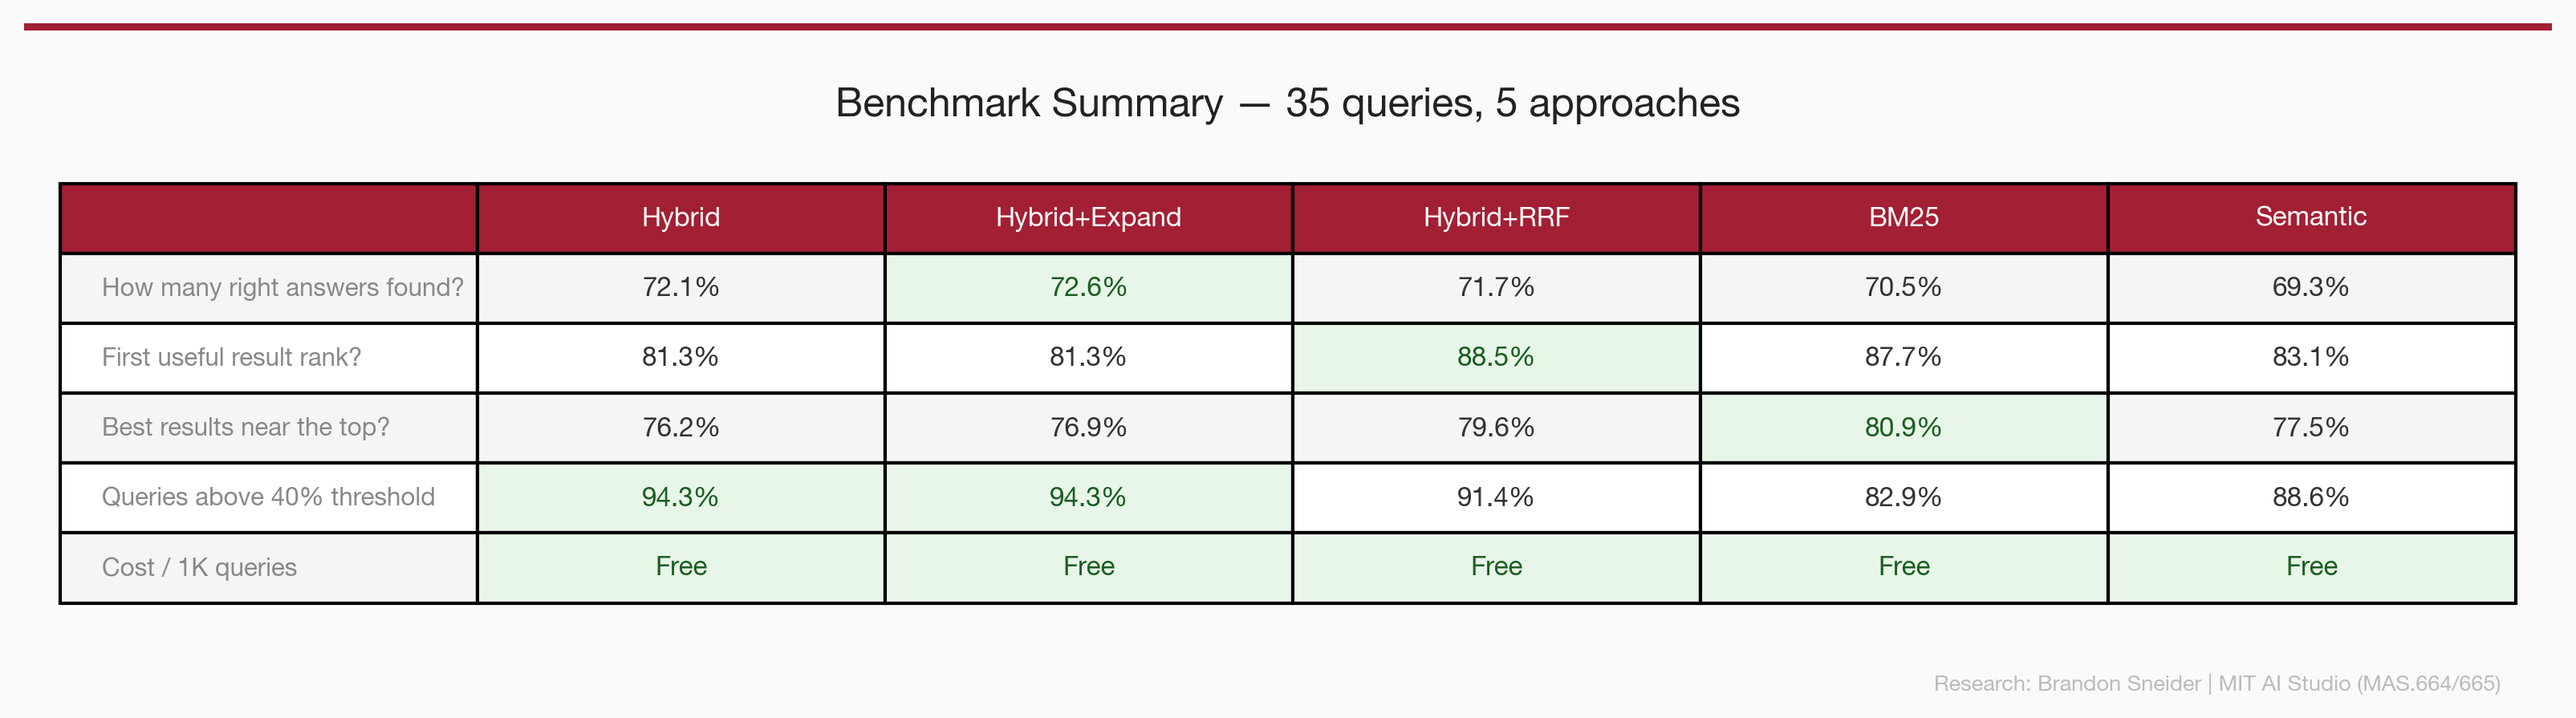
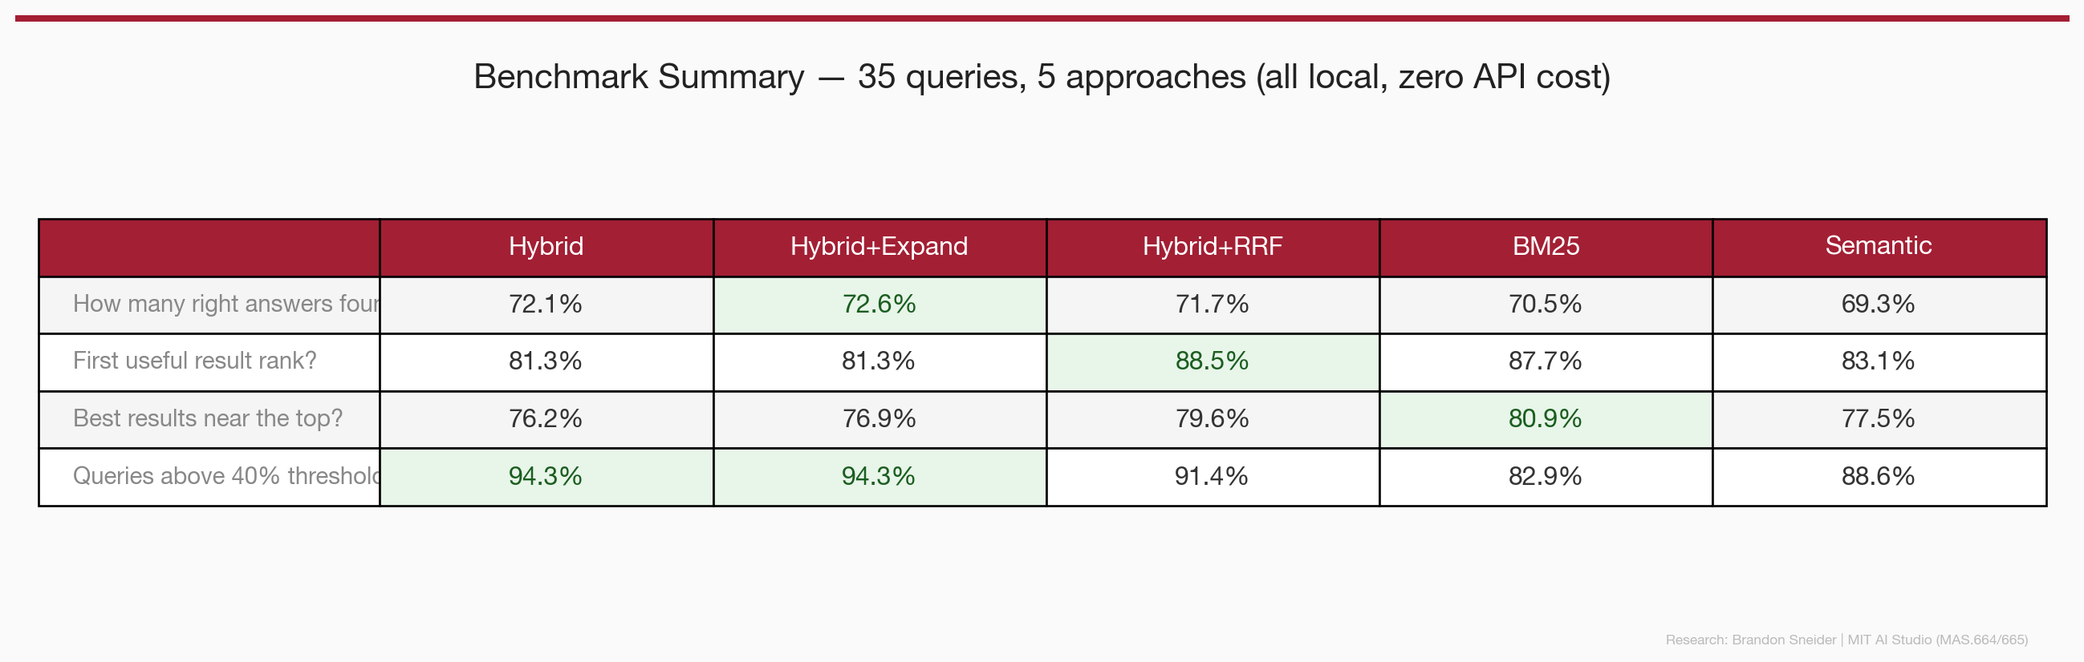
Optimize benchmark charts for Google Slides (16:9, larger fonts)

diff --git a/scripts/generate_charts.py b/scripts/generate_charts.py
@@ -51,8 +51,12 @@ def _c(name):
 
 
 COST = {"gemini": 1.15, "nemotron": 11.10, "llama": 1.09, "improved": 1.15, "pageindex": 1.15}
-DPI = 300
+DPI = 192
 FOOTER = "Research: Brandon Sneider | MIT AI Studio (MAS.664/665)"
+
+# Google Slides optimized (16:9)
+SLIDE_W = 13.33
+SLIDE_H = 7.5
 
 
 def _cost(name):
@@ -99,42 +103,29 @@ def chart_quality_vs_cost(data, output_dir):
     ranked = sorted(apps, key=lambda a: agg[a]["Recall@K"])
 
     recalls = [agg[a]["Recall@K"] for a in ranked]
-    costs = [_cost(a) for a in ranked]
     colors = [_c(a) for a in ranked]
 
-    fig, ax = plt.subplots(figsize=(8, 4.8))
+    fig, ax = plt.subplots(figsize=(SLIDE_W, SLIDE_H))
     y = np.arange(len(ranked))
 
     bars = ax.barh(y, recalls, color=colors, alpha=0.82, height=0.55,
                    zorder=3, edgecolor="white", linewidth=0.8)
 
-    # Separator between free and paid
-    free_n = sum(1 for c in costs if c == 0)
-    if 0 < free_n < len(ranked):
-        sep_y = free_n - 0.5
-        ax.axhline(sep_y, color="#e0e0e0", linewidth=0.8, zorder=2)
-
     best = max(recalls)
-    for bar, recall, cost in zip(bars, recalls, costs):
+    for bar, recall in zip(bars, recalls):
         mid = bar.get_y() + bar.get_height() / 2
         w = "bold" if recall == best else "normal"
-        # "72.6% Free" or "67.2% $1.15/1K" — all inline right after bar
-        cstr = "Free" if cost == 0 else f"${cost:.2f}/1K"
-        cc = "#27AE60" if cost == 0 else "#C0392B"
         ax.text(recall + 0.003, mid, f"{recall:.1%}", va="center",
-                fontsize=9, fontweight=w, color="#333")
-        ax.text(recall + 0.032, mid, cstr, va="center",
-                fontsize=7.5, fontweight="bold", color=cc)
+                fontsize=14, fontweight=w, color="#333")
 
     ax.set_yticks(y)
-    ax.set_yticklabels(ranked, fontsize=9.5, fontweight="bold")
-    ax.set_xlabel("Recall@K", fontsize=10, color="#666")
+    ax.set_yticklabels(ranked, fontsize=14, fontweight="bold")
+    ax.set_xlabel("Recall@K", fontsize=14, color="#666")
     ax.xaxis.set_major_formatter(plt.FuncFormatter(lambda v, _: f"{v:.0%}"))
-    # Tight right margin: just enough for the longest cost label
-    max_cost_len = max(len(f"${c:.2f}/1K") if c > 0 else len("Free") for c in costs)
-    ax.set_xlim(0.62, best + 0.045 + max_cost_len * 0.003)
-    ax.set_title("Retrieval Quality vs. Cost", fontsize=13, fontweight="bold",
-                 pad=14, color="#222")
+    ax.tick_params(axis='x', labelsize=12)
+    ax.set_xlim(0.62, best + 0.05)
+    ax.set_title("Retrieval Quality — All Local, Zero API Cost",
+                 fontsize=18, fontweight="bold", pad=18, color="#222")
 
     fig.tight_layout(rect=[0, 0.02, 1, 0.975])
     _brand(fig)
@@ -160,42 +151,39 @@ def chart_hybrid_mix(data, output_dir):
     x = [p["sw"] for p in hyb]
     y = [p["mean_recall"] for p in hyb]
 
-    fig, ax = plt.subplots(figsize=(8, 4.5))
+    fig, ax = plt.subplots(figsize=(SLIDE_W, SLIDE_H))
 
     ax.fill_between(x, y, alpha=0.05, color=C_HYB)
-    ax.plot(x, y, "o-", color=C_HYB, lw=2, ms=5, zorder=4,
-            markeredgecolor="white", markeredgewidth=1)
+    ax.plot(x, y, "o-", color=C_HYB, lw=3, ms=8, zorder=4,
+            markeredgecolor="white", markeredgewidth=1.5)
 
     bi = max(range(len(y)), key=lambda i: y[i])
     ax.annotate(f"Best: {x[bi]:.0%} semantic\n{y[bi]:.1%} recall",
                 xy=(x[bi], y[bi]),
                 xytext=(x[bi] - 0.2, y[bi] + 0.025),
-                fontsize=8, fontweight="bold", color=C_HYB,
-                arrowprops=dict(arrowstyle="->", color=C_HYB, lw=1.2))
+                fontsize=12, fontweight="bold", color=C_HYB,
+                arrowprops=dict(arrowstyle="->", color=C_HYB, lw=1.5))
 
     if llm:
         lr = [p["mean_recall"] for p in llm]
         lo, hi = min(lr), max(lr)
         ax.axhspan(lo - 0.001, hi + 0.001, alpha=0.07, color=C_LLM, zorder=1)
         ax.axhline(np.mean(lr), color=C_LLM, ls="--", lw=1.2, alpha=0.5, zorder=2)
-        # LLM label above the band, left-aligned to avoid right-side clutter
         ax.text(0.02, hi + 0.006,
                 f"LLM Rerankers ({lo:.1%}\u2013{hi:.1%}, $1\u2013$11/1K)",
-                fontsize=7.5, color=C_LLM, va="bottom", fontweight="bold")
+                fontsize=10, color=C_LLM, va="bottom", fontweight="bold")
 
-    # Endpoint labels — "Pure BM25" below first point, "Pure Semantic" above last
-    # Offset them vertically to avoid colliding with the LLM band
-    ax.text(0.01, y[0] - 0.012, "Pure BM25", fontsize=7.5,
+    ax.text(0.01, y[0] - 0.012, "Pure BM25", fontsize=11,
             color=C_BM25, fontweight="bold", va="top")
-    # Last point (pure semantic) is near the LLM band — put label above
-    ax.text(0.99, y[-1] + 0.012, "Pure Semantic", fontsize=7.5,
+    ax.text(0.99, y[-1] + 0.012, "Pure Semantic", fontsize=11,
             color=C_SEM, fontweight="bold", va="bottom", ha="right")
 
-    ax.set_xlabel("Semantic Weight  (BM25 = 1 \u2212 semantic)", fontsize=10, color="#666")
-    ax.set_ylabel("Recall@K", fontsize=10, color="#666")
+    ax.set_xlabel("Semantic Weight  (BM25 = 1 \u2212 semantic)", fontsize=14, color="#666")
+    ax.set_ylabel("Recall@K", fontsize=14, color="#666")
     ax.set_title("Hybrid Search: Finding the Optimal Mix",
-                 fontsize=13, fontweight="bold", pad=14, color="#222")
+                 fontsize=18, fontweight="bold", pad=18, color="#222")
     ax.yaxis.set_major_formatter(plt.FuncFormatter(lambda v, _: f"{v:.0%}"))
+    ax.tick_params(axis='both', labelsize=12)
     ax.set_xlim(-0.03, 1.03)
     ax.set_ylim(min(y) - 0.025, max(y) + 0.045)
 
@@ -238,27 +226,17 @@ def chart_summary_table(data, output_dir):
         rows.append(row)
         rcolors.append(rc)
 
-    # Cost row
-    cr, cc = ["Cost / 1K queries"], ["#f5f5f5"]
-    costs = [_cost(a) for a in apps]
-    for c in costs:
-        cr.append(f"${c:.2f}" if c > 0 else "Free")
-        cc.append("#e8f5e9" if c == 0 else "#f5f5f5")
-    rows.append(cr)
-    rcolors.append(cc)
-
-    fw = max(10, 3 + na * 1.5)
-    fig, ax = plt.subplots(figsize=(fw, 2.8))
+    fig, ax = plt.subplots(figsize=(SLIDE_W, SLIDE_H * 0.55))
     ax.axis("off")
-    ax.set_title(f"Benchmark Summary \u2014 {data['n_queries']} queries, {na} approaches",
-                 fontsize=12, fontweight="bold", pad=8, color="#222")
+    ax.set_title(f"Benchmark Summary \u2014 {data['n_queries']} queries, {na} approaches (all local, zero API cost)",
+                 fontsize=16, fontweight="bold", pad=12, color="#222")
 
     tbl = ax.table(cellText=rows, colLabels=cols, cellColours=rcolors,
                    loc="center", cellLoc="center")
     tbl.auto_set_font_size(False)
-    fs = 8 if na <= 5 else 6.8 if na <= 8 else 6
+    fs = 12 if na <= 5 else 10 if na <= 8 else 8
     tbl.set_fontsize(fs)
-    tbl.scale(1.0, 1.8)
+    tbl.scale(1.0, 2.2)
 
     dw = 0.17
     aw = (1.0 - dw) / na
@@ -273,7 +251,7 @@ def chart_summary_table(data, output_dir):
 
     for i in range(1, len(rows) + 1):
         tbl[i, 0].get_text().set_ha("left")
-        tbl[i, 0].get_text().set_fontsize(max(5.5, fs - 0.5))
+        tbl[i, 0].get_text().set_fontsize(max(8, fs - 1))
         tbl[i, 0].get_text().set_color("#888")
 
     for i, (mk, _) in enumerate(metrics):
@@ -282,10 +260,6 @@ def chart_summary_table(data, output_dir):
         for j, v in enumerate(vals):
             if v == best:
                 tbl[i + 1, j + 1].set_text_props(fontweight="bold", color="#1b5e20")
-
-    for j, c in enumerate(costs):
-        if c == 0:
-            tbl[len(metrics) + 1, j + 1].set_text_props(fontweight="bold", color="#1b5e20")
 
     fig.tight_layout(rect=[0, 0.025, 1, 0.96])
     _brand(fig)
@@ -346,7 +320,7 @@ def chart_approach_strengths(data, output_dir):
     n = len(labels)
 
     # Spacing: 1.5 units between rows for description text
-    fig, ax = plt.subplots(figsize=(9, 6.5))
+    fig, ax = plt.subplots(figsize=(SLIDE_W, SLIDE_H))
     yp = np.arange(n) * 1.5
 
     # Range lines (behind dots)
@@ -400,32 +374,33 @@ def chart_approach_strengths(data, output_dir):
             if xval == best_val:
                 too_close = any(abs(xval - lx) < 0.03 for lx in labeled_x)
                 if not too_close:
-                    ax.annotate(f"{xval:.0%}", (xval, yval), fontsize=7.5,
+                    ax.annotate(f"{xval:.0%}", (xval, yval), fontsize=11,
                                 fontweight="bold", color=color,
-                                xytext=(0, 10), textcoords="offset points",
+                                xytext=(0, 12), textcoords="offset points",
                                 ha="center", va="bottom")
                     labeled_x.append(xval)
 
     # Y-axis labels
     ax.set_yticks(yp)
-    ax.set_yticklabels(labels, fontsize=9.5, fontweight="bold")
+    ax.set_yticklabels(labels, fontsize=13, fontweight="bold")
     # Description subtitle below each label
     for i, lb in enumerate(labels):
         ax.annotate(descs[lb], xy=(0, yp[i]),
                     xycoords=("axes fraction", "data"),
-                    xytext=(-10, -14), textcoords="offset points",
-                    fontsize=7, color="#aaa", ha="right", va="top")
+                    xytext=(-10, -16), textcoords="offset points",
+                    fontsize=9, color="#aaa", ha="right", va="top")
 
     ax.xaxis.set_major_formatter(plt.FuncFormatter(lambda v, _: f"{v:.0%}"))
-    ax.set_xlabel("Recall@K", fontsize=10, color="#666")
-    ax.set_title("Where Each Approach Wins", fontsize=13,
-                 fontweight="bold", pad=14, color="#222")
+    ax.set_xlabel("Recall@K", fontsize=14, color="#666")
+    ax.tick_params(axis='x', labelsize=12)
+    ax.set_title("Where Each Approach Wins", fontsize=18,
+                 fontweight="bold", pad=18, color="#222")
     ax.set_xlim(0.28, 1.02)
     ax.invert_yaxis()
 
     # Legend below the chart, fully outside plot area
     ax.legend(loc="upper center", bbox_to_anchor=(0.5, -0.07),
-              framealpha=0.95, fontsize=8.5,
+              framealpha=0.95, fontsize=12,
               ncol=4, columnspacing=1.5, edgecolor="#ddd",
               handletextpad=0.4)
 
